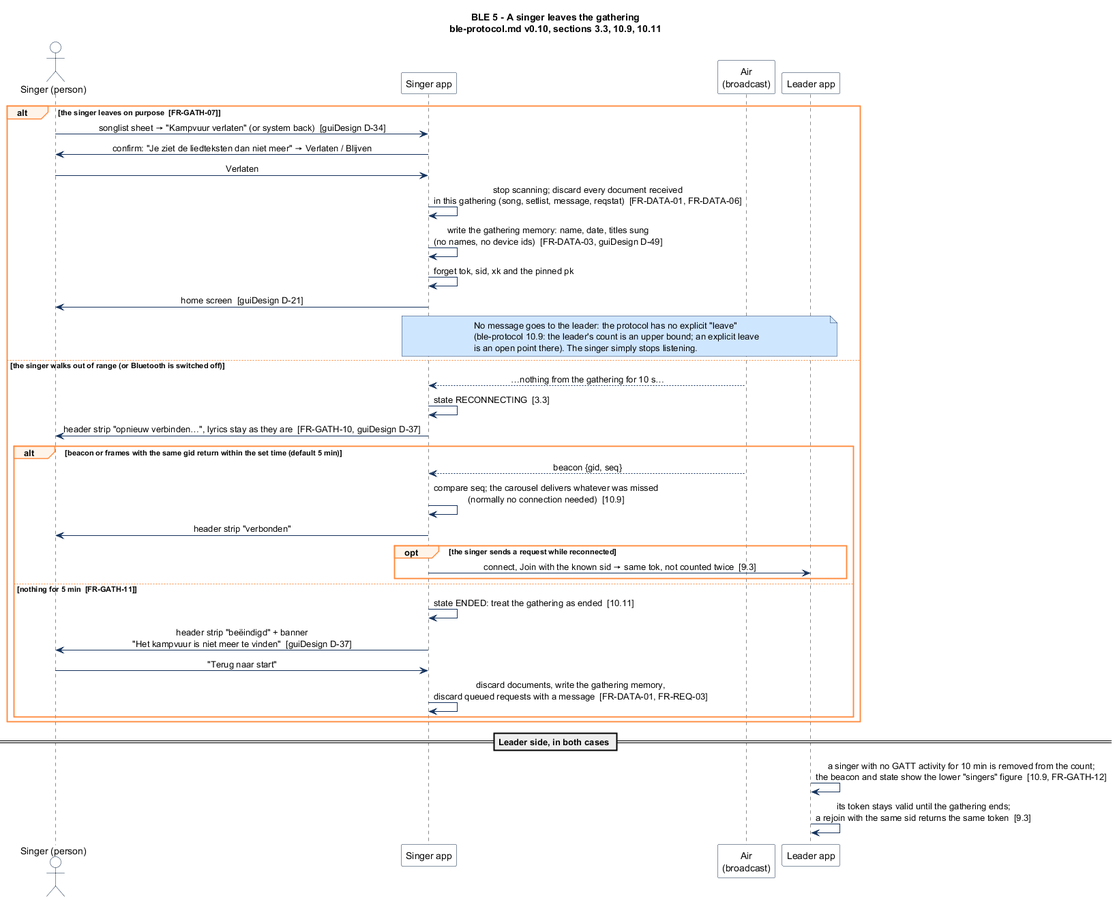
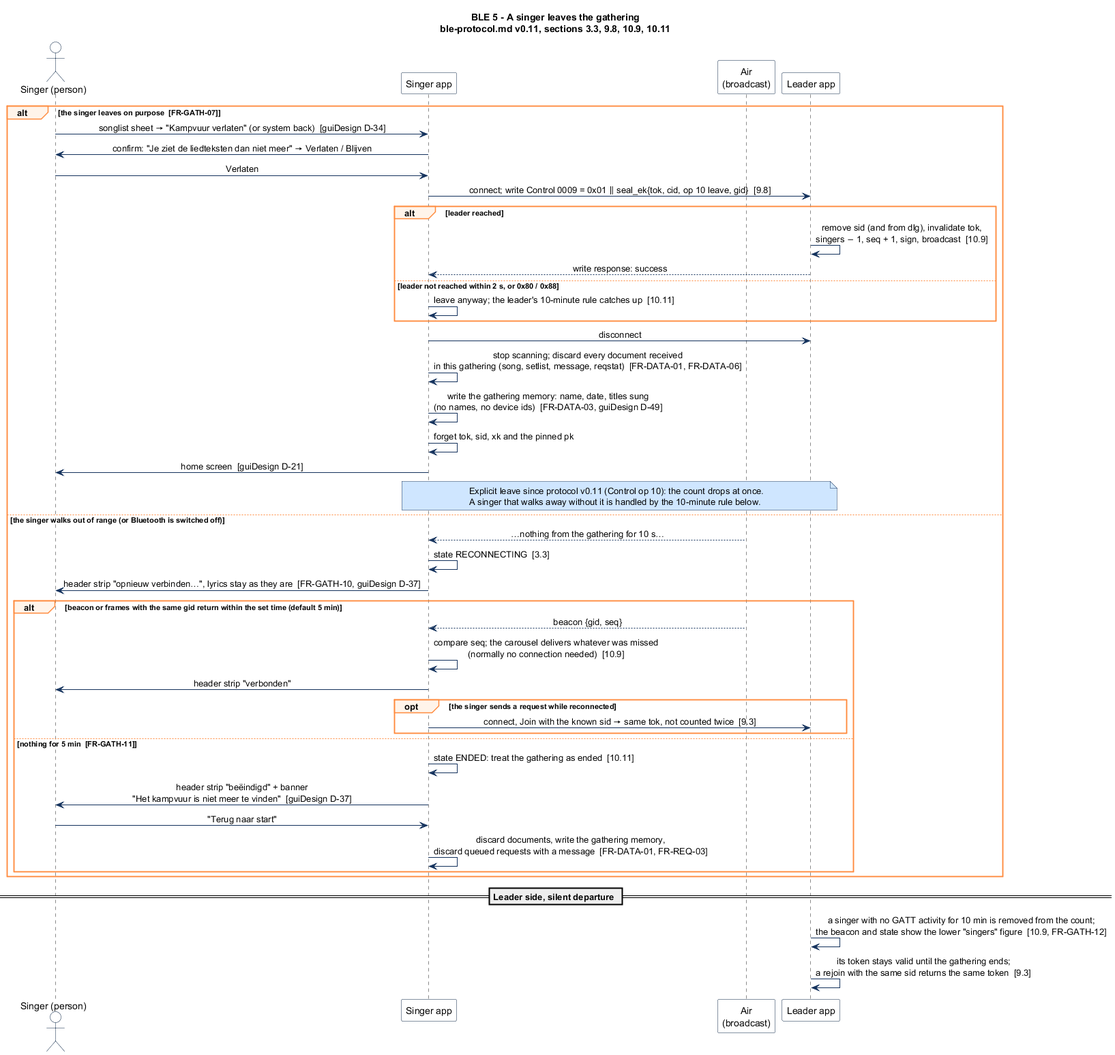
FRD v0.9, GUI design v0.7, song format v0.3, BLE v0.11 with helper code and leave, sequence diagrams

diff --git a/design/ble-protocol.md b/design/ble-protocol.md
@@ -5,7 +5,7 @@
 | Document | BLE protocol design |
 | Project | Zangbundel – campfire songbook app |
 | Protocol version | 1.0 (draft) |
-| Document version | 0.10 (draft) |
+| Document version | 0.11 (draft) |
 | Date | 2026-10-19 |
 | Author | Remko Welling |
 | Status | Draft for review |
@@ -23,6 +23,7 @@
 | 0.8 | 2026-10-18 | 6.5: link host is GitHub Pages (`pe1mew.github.io/Zangbundel/j`), scheme form `zangbundel://j/<payload>`, browser step with `intent://` button described. Q16 resolved. Depends on FRD v0.8. |
 | 0.9 | 2026-10-18 | 6.5: canonical link carries the trailing slash (`/Zangbundel/j/#…`); Pages site verified live. |
 | 0.10 | 2026-10-19 | Depends on FRD v0.9, which withdraws FR-LEAD-30 and 31 (no library download instruction in phase 1, `design/guiDesign.md` D-66). The `download` document (6) and the `libs` fields in Info and Join stay defined but are reserved: phase 1 apps do not send them and ignore them when received. No wire change. |
+| 0.11 | 2026-10-19 | Two additive Control commands for any registered singer (9.8): op 9 *become delegate* with a helper code shown on the leader's screen (`design/guiDesign.md` D-73, Q22; FR-LEAD-40 as amended in FRD v0.9), and op 10 *leave*, so the leader's count drops at once (FR-GATH-07, FR-GATH-12). Error `0x8E`. Procedures 10.9, 10.11 and 10.12, security table and traceability updated. Protocol stays 1.0: new keys and ops only. |
 
 ---
 
@@ -387,7 +388,7 @@ Base UUID `7e2bXXXX-9f1c-4a7d-b2d4-5a4e47424c45` (provisional; the last group sp
 | `0006` | **Data** | notify | MTU − 3 | Bytes of the document being transferred. |
 | `0007` | **Request** | write (with response) | 256 | Add or withdraw a song request (9.8). |
 | `0008` | *Time* | reserved | | Phase 2 clock synchronisation. Not present in 1.0. |
-| `0009` | **Control** | write (with response) | 512 | Delegate commands (9.9). |
+| `0009` | **Control** | write (with response) | 512 | Singer and delegate commands (9.8): delegate actions, become delegate with a helper code, leave. |
 
 Clients MUST tolerate additional characteristics they do not know. Servers MUST implement all of `0002`–`0007` and `0009`.
 
@@ -416,6 +417,7 @@ Clients MUST tolerate additional characteristics they do not know. Servers MUST 
 | `0x8B` | Upload rejected (hash mismatch or size limit) |
 | `0x8C` | Requested range outside the document |
 | `0x8D` | Sealed payload cannot be opened (wrong key, truncated, bad authentication tag) or unknown framing byte |
+| `0x8E` | Helper code wrong, expired, or locked after too many wrong tries (9.8 op 9, 10.12) |
 
 ### 8.4 Sealed payloads: end-to-end encryption of personal data [FR-BLE-17]
 
@@ -616,13 +618,13 @@ The singer MUST subscribe to Data notifications before writing Transfer. One tra
 - The leader MUST pace notifications to the connection (wait for the stack's "sent" callback). If the connection drops, the singer recomputes its missing ranges from the frames it has and repairs again later.
 - Repaired bytes fill the same reassembly buffer as broadcast frames; verification is identical (section 7.5).
 
-### 9.8 Control (write `0009`, delegates only, sealed)
+### 9.8 Control (write `0009`, sealed)
 
-Every Control write is sealed to the leader's `ek` (8.4) and carries the delegate's token. The leader checks that the token's `sid` is in `dlg`; otherwise `0x89`. On success the leader applies the command as if done in its own UI, increments `seq`, re-signs the state and broadcasts (section 10.5). Commands are idempotent per `cid`.
+Every Control write is sealed to the leader's `ek` (8.4) and carries the writer's session token. Ops 1–8 are **delegate commands**: the leader checks that the token's `sid` is in `dlg`, otherwise `0x89`. Ops 9 and 10 are **singer commands**, open to any registered singer. On success the leader applies the command as if done in its own UI, increments `seq`, re-signs the state and broadcasts (section 10.5). Commands are idempotent per `cid`.
 
 | Key | Name | Type | Req. | Meaning |
 |---|---|---|---|---|
-| 1 | `tok` | bstr 16 | yes | Delegate's session token. |
+| 1 | `tok` | bstr 16 | yes | Writer's session token. |
 | 2 | `cid` | bstr 4 | yes | Command ID; a repeated `cid` is answered with success and ignored. |
 | 3 | `op` | uint | yes | See below. |
 | 4 | `ref` | ref | op 1, 4 | Song reference. |
@@ -631,6 +633,7 @@ Every Control write is sealed to the leader's `ek` (8.4) and carries the delegat
 | 7 | `data` | bstr | op 8 | Upload chunk bytes (framed song document bytes). |
 | 8 | `len` | uint | op 8, idx 0 | Total length of the upload. |
 | 9 | `gid` | bstr 5 | yes | Gathering ID; binds the sealed payload (8.4). |
+| 10 | `hc` | tstr 4 | op 9 | Helper code (*hulpleidercode*): the four digits shown on the leader's screen (10.12). |
 
 | `op` | Command | Effect on the leader | FRD |
 |---|---|---|---|
@@ -642,8 +645,10 @@ Every Control write is sealed to the leader's `ek` (8.4) and carries the delegat
 | 6 | Decline request | Request `rid` → declined. | FR-LEAD-41 |
 | 7 | Push request now | Request `rid` → accepted and current. | FR-LEAD-41 |
 | 8 | Upload song chunk | Delegate → leader transfer of a song the leader lacks, in writes of ≤ 432 bytes of `data`, in order (the sealed write stays within 512 bytes). The bytes are the framed song document (section 9.5, DEFLATE), so the leader can broadcast them unchanged. The leader verifies `ref.hash` after the last chunk; `0x8B` on mismatch or if `len` > 64 kB. Then the delegate sends op 1 or 4. | FR-LEAD-42 (SHOULD) |
+| 9 | Become delegate (any registered singer) | `hc` is compared with the helper code the leader is currently showing (10.12). Match: the writer's `sid` is added to `dlg`, `seq` + 1, sign, broadcast; the write succeeds. No match, expired, or code locked: `0x8E`. | FR-LEAD-40, 45 |
+| 10 | Leave (any registered singer) | The writer's `sid` is removed from the singer table and from `dlg` if present, its token is invalidated, `singers` − 1, `seq` + 1, sign, broadcast. A later Join from the same device registers anew. The write succeeds; an unknown token (`0x80`) is treated by the singer as already left. | FR-GATH-07, FR-GATH-12 |
 
-Op 8 is optional in 1.0; a leader without it answers `0x8A` and the delegate shows "the leader does not have this song". Leader-only actions have no Control op by design [FR-LEAD-44].
+Op 8 is optional in 1.0; a leader without it answers `0x8A` and the delegate shows "the leader does not have this song". Leader-only actions have no Control op by design [FR-LEAD-44]: ending, the join code, revoking delegates and hand-over stay on the leader's screen; op 9 only lets a singer *ask* with a code the leader chose to show.
 
 ---
 
@@ -723,7 +728,7 @@ Connections now occur for registration, requests, delegate commands and repair. 
 ### 10.9 Loss of contact and reconnection
 
 - **Singer side.** Nothing received for 10 s → "reconnecting", keep the current lyrics [FR-GATH-10]. Beacon or frames return with the same `gid` → compare `seq`, continue; the carousel delivers whatever was missed, so normally no connection is needed. 5 min without anything → ended (10.11) [FR-GATH-11].
-- **Leader side.** Singers not seen for 10 min are removed from the count [FR-GATH-12]; because registered singers rarely connect, "seen" includes any GATT activity; the count is therefore an upper bound (FRD Q7 asks for an explicit *leave*).
+- **Leader side.** A singer that leaves on purpose sends Control op 10 (9.8) and is removed from the count at once [FR-GATH-07, FR-GATH-12]. Singers that fall silent without it (walked away, phone off) are removed after 10 min without GATT activity; because registered singers rarely connect, "seen" includes any GATT activity, so the count can run high by the silent departures of the last ten minutes. (v0.11: the explicit leave replaces the earlier note that the count is only an upper bound.)
 - **Leader app restart.** On start, a persisted running gathering younger than the resume window (default 10 min) is offered for resumption [FR-GATH-13]. Resuming reuses key, `gid`, name, tokens and `seq` (+1, so a burst follows).
 
 ### 10.10 End a gathering (leader)
@@ -734,11 +739,15 @@ Connections now occur for registration, requests, delegate commands and repair. 
 
 ### 10.11 Ended, on the singer
 
-On `ENDED` in the beacon, `status` 1 in a verified state, or the 5-minute timeout: show "gathering ended", delete all documents received during the gathering [FR-DATA-01, FR-DATA-06], write the gathering memory from the last verified setlist [FR-DATA-03]. Leaving voluntarily [FR-GATH-07] has the same local effect.
+On `ENDED` in the beacon, `status` 1 in a verified state, or the 5-minute timeout: show "gathering ended", delete all documents received during the gathering [FR-DATA-01, FR-DATA-06], write the gathering memory from the last verified setlist [FR-DATA-03].
+
+**Leaving voluntarily** [FR-GATH-07] has the same local effect, preceded by a best-effort notice to the leader: after the user confirms, the singer connects, writes Control op 10 (9.8) and disconnects, then cleans up. The write is attempted once with the normal backoff for at most 2 s; if the leader cannot be reached, or answers `0x80` or `0x88`, the singer leaves anyway and the leader's 10-minute rule (10.9) catches up. The singer discards its token, `sid`, `xk` and the pinned `pk` afterwards; rejoining later is a fresh registration.
 
 ### 10.12 Delegates
 
-**Appoint / revoke** [FR-LEAD-40]: the leader adds or removes the `sid` in `dlg`, `seq` + 1, sign, broadcast. The delegate learns of its role from the next verified state (one carousel pass), shows the delegate UI and fetches document 8 over GATT [FR-LEAD-45]. After revocation a Control write with that token gets `0x89`.
+**Appoint with a helper code** [FR-LEAD-40, as amended in FRD v0.9]: the leader has no list of singers to pick from (`design/guiDesign.md` D-73). To appoint, the leader opens *Hulpleider toevoegen*; the leader's app generates a **helper code** `hc` of four decimal digits from a cryptographic random source, shows it large on the leader's screen and keeps it valid for **120 s** or until used, whichever is first; at most one code is valid at a time. The intended helper, a registered singer standing next to the leader, types the code; the singer app connects and writes Control op 9 `{tok, cid, op 9, hc, gid}` sealed to `ek` (9.8). The leader compares `hc` with the valid code: on a match it adds the writer's `sid` to `dlg`, `seq` + 1, signs and broadcasts; the code is consumed. On a mismatch it answers `0x8E` and counts a wrong try; after **3 wrong tries** against one code, or when the 120 s have passed, the code is invalid and every further op 9 gets `0x8E` until the leader shows a new code. A singer is limited to one op 9 per 2 s per connection (10.8 rate limits). The new delegate learns of its role from the next verified state (one carousel pass), shows the delegate UI and fetches document 8 over GATT [FR-LEAD-45]; the leader's drawer lists it by the display name from its Join.
+
+**Revoke** [FR-LEAD-40, FR-LEAD-44]: leader-only, on the leader's screen: the leader removes the `sid` from `dlg`, `seq` + 1, sign, broadcast. After revocation a Control write with that token gets `0x89`. A delegate that leaves (op 10) is removed from `dlg` by the leave itself.
 
 **Act**: a delegate connects (delegates are the main users of `stay`), writes Control, handles the response. The leader's screen updates from the same state change [FR-LEAD-45]. If the leader cannot be reached, the delegate UI reports that the action could not be sent and does not queue it [FR-LEAD-43].
 
@@ -751,7 +760,9 @@ sequenceDiagram
   participant L as Leader
   participant D as Delegate
   participant S as Other singers
-  L->>L: add D.sid to dlg, seq+1, sign
+  L->>L: show helper code hc (4 digits, 120 s)
+  D->>L: connect, Control {tok, cid, op 9, hc} sealed
+  L->>L: hc matches → add D.sid to dlg, seq+1, sign (else 0x8E)
   L-->>D: broadcast state (burst) → D sees own sid in dlg
   D->>L: connect, Transfer doc 8 {tok}
   D->>L: Control {tok, cid, op 7 push request rid}
@@ -826,6 +837,8 @@ Singers scan continuously in the foreground; this costs more than the v0.1 desig
 | Learning who requested what | `reqstat` carries only random request IDs; names are only in document 8, sealed to a delegate. | A sniffer can link a `rid` to the device address that wrote a sealed request, not to a name. Accepted. |
 | Tracking a person across gatherings | `sid`, token and `xk` are per gathering; the OS randomises addresses; nothing persistent is sent [NFR-PRIV-01]. | None of note. |
 | A second gathering started in range | Pre-start scan refuses [FR-GATH-16]; singers pick by name and RSSI. | A modified app can ignore it; the leader is warned [FR-GATH-17]. |
+| Guessing the helper code to become a delegate | Four digits, valid 120 s or until used, one code at a time, locked after 3 wrong tries, one try per 2 s per connection, only from a registered singer's sealed Control write, and only while the leader has chosen to show a code (10.12). The leader sees every delegate in the drawer and revokes with one tap. | A child who reads the code over the leader's shoulder within those two minutes becomes a delegate until revoked; the leader's screen is the trust anchor, as with the QR code. Accepted. |
+| A singer leaving in another singer's name | Leave (op 10) needs the token, which travels only sealed. | A compromised phone can only remove itself. |
 | Luring singers into a fake or mistaken gathering | The join QR code (6.5) carries the leader's public key, so a phone that scans it can only end up in the gathering signed by that key; in QR-only mode [FR-GATH-21] the list cannot be used to join at all. For singers who join from the list: the join code travels inside the sealed Join (8.4), the gathering fingerprint [FR-GATH-18] lets the leader say which gathering to join, and leaving is one tap [FR-GATH-07]. | A leader-pushed text cannot be filtered; the leader is an adult by role. A spoken join code is no secret against people present. See `design/security-privacy-assessment.md` SP-04. |
 
 Link-layer encryption is deliberately not used: it would require system pairing, which FR-BLE-02 forbids, and would make broadcast impossible. Application-layer sealing (8.4) protects exactly the payloads that carry personal data and leaves the broadcast public.
@@ -839,7 +852,7 @@ Link-layer encryption is deliberately not used: it would require system pairing,
 - Frame `magic` values `0xD1`/`0xD2` identify framing version 1; a new framing gets a new magic.
 - Reserved for **phase 2**: `KARAOKE` flag; `ts` as the leader clock; characteristic `0008` Time; a broadcast *tick* document carrying the current karaoke timeline position, which fits the carousel model without a connection.
 - Reserved for **phase 3**: a `variant` field in `ref`; the song file carries chords and notation.
-- The protocol version this document specifies is **1.0**; the relay extension is planned as **1.1**.
+- The protocol version this document specifies is **1.0**; the relay extension is planned as **1.1**. Document v0.11 added Control ops 9 and 10, key 10 and error `0x8E` within 1.0, which is additive: a 1.0 leader that does not implement them answers `0x83` (malformed) and the singer shows that the leader's app is older.
 
 ---
 
@@ -874,10 +887,10 @@ The protocol layer is implemented against four primitives: *advertise(setId, byt
 | FR-GATH-02, 03, 04 | Beacon (6), gathering list rules (6.4) |
 | FR-GATH-05 | `CODE` flag, Join `code` (9.3) |
 | FR-GATH-06 | Registration fetches anything incomplete (7.6, 10.2) |
-| FR-GATH-07 | Singer leave (10.11) |
+| FR-GATH-07 | Leave: Control op 10 (9.8), best-effort notice then local clean-up (10.11) |
 | FR-GATH-08, 09 | End procedure (10.10), `ENDED` flag |
 | FR-GATH-10, 11 | Timers (6.4), reconnection (10.9) |
-| FR-GATH-12 | `singers` in Info/State, inactivity rule (10.9) |
+| FR-GATH-12 | `singers` in Info/State, explicit leave (9.8 op 10) and inactivity rule (10.9) |
 | FR-GATH-13 | Persisted key and resume (10.1, 10.9) |
 | FR-GATH-15 | Foreground service (15.1), iOS limits (15.2) |
 | FR-GATH-16, 17 | Pre-start scan and scanning while leading (10.1) |
@@ -901,7 +914,7 @@ The protocol layer is implemented against four primitives: *advertise(setId, byt
 | FR-LEAD-05, FR-SING-12 | `pos` in beacon (6.1, 10.6) |
 | FR-LEAD-06 | Re-push (10.5), `cur` absent |
 | FR-LEAD-32 | Lyrics broadcast to every singer (7, 9.5); `download` document and `libs` in Info/Join reserved since FR-LEAD-30 and 31 were withdrawn (FRD v0.9) |
-| FR-LEAD-40, 45, 46 | `dlg` in State (9.4), `role` in Join (9.3), appoint/revoke (10.12) |
+| FR-LEAD-40, 45, 46 | `dlg` in State (9.4), `role` in Join (9.3), helper code and Control op 9 (9.8, 10.12), revoke (10.12) |
 | FR-LEAD-41 | Document 8 (9.5), Control ops 5–7 (9.8) |
 | FR-LEAD-42 | Control ops 1, 3, 4 and upload op 8 (9.8) |
 | FR-LEAD-43, 44 | Leader as single authority (3.2, 9.8, 10.12) |

diff --git a/design/guiDesign.md b/design/guiDesign.md
@@ -187,7 +187,7 @@ The singer's lyric view is the screen the app exists for. It is one continuous p
 
 **D-33 — Song info stays one tap away but off the page.** The metadata of the song (author, licence, source, library) [FR-SING-15] opens from the toolbar (D-17) or from a long press on the song's title; it is not printed on the lyric page.
 
-**D-34 — Leaving singer mode is deliberate.** The exit from singer mode is the row *Kampvuur verlaten* at the bottom of the songlist sheet (D-31), and the system back gesture, both followed by the confirmation that FR-GATH-07 requires (*Je ziet de liedteksten dan niet meer.* with *Verlaten* and *Blijven*). It is not one of the three round buttons, so it cannot be hit by accident in the dark. Leaving returns to the home screen (section 4), ends the singer mode header, and discards the lyrics received over the air [FR-DATA-01]; the gathering memory of FR-DATA-03 is written at that moment. When the leader ends the gathering, the lyric view stays readable with the header *beëindigd* [FR-GATH-09] and the same row reads *Terug naar start*.
+**D-34 — Leaving singer mode is deliberate.** The exit from singer mode is the row *Kampvuur verlaten* at the bottom of the songlist sheet (D-31), and the system back gesture, both followed by the confirmation that FR-GATH-07 requires (*Je ziet de liedteksten dan niet meer.* with *Verlaten* and *Blijven*). It is not one of the three round buttons, so it cannot be hit by accident in the dark. Leaving first tells the leader, best effort and within two seconds, so the singer count drops at once (BLE protocol v0.11, Control op 10), then returns to the home screen (section 4), ends the singer mode header, and discards the lyrics received over the air [FR-DATA-01]; the gathering memory of FR-DATA-03 is written at that moment. When the leader ends the gathering, the lyric view stays readable with the header *beëindigd* [FR-GATH-09] and the same row reads *Terug naar start*.
 
 **D-47 — A singer sees only what the leader has sent.** The setlist page (D-29), the *Lijst* tab (D-31) and the previous/next buttons (D-30) contain exactly the songs received over BLE in the running gathering, in the order the leader pushed them: the current song and the ones before it. No upcoming song, no title of a song still to come, no placeholder for a text that has not arrived, even when the singer's own library holds that song. The singer's local library is a different thing: it is browsed in browse state (D-40), is never merged into the session page, and a song read there is not "part of the session" until the leader pushes it. When the gathering ends, the received songs are discarded [FR-DATA-01] and only their titles stay in the gathering memory [FR-DATA-03]. *Why:* the leader decides what the fire sings and when; reading ahead undermines that and tempts singers to request what is coming anyway. It also keeps a singer without the library from ever holding more than what was broadcast, which is the spirit of FR-LIB-22. FR-SING-03's optional "upcoming songs if the leader shares them" is therefore not used in phase 1 (Q17).
 
@@ -321,7 +321,7 @@ The leader prepares at home, with light and time, and leads at the fire, in the 
 
 #### Delegates without a singer list
 
-**D-73 — There is no singer list; the leader sees a count, and delegates are appointed with a helper code.** *(Supersedes D-64.)* The leader's app never lists the joined singers: singers are anonymous to the leader by design, so there is nothing a list could be used for except comparing phones. The drawer (D-61) shows *12 zangers* as a figure, which is also what the statistics keep (D-60, D-62) [FR-GATH-12]. Delegates (*hulpleiders*) are appointed with a **helper code**: the drawer row *Hulpleider toevoegen* shows a four-digit code, valid for two minutes, large enough to read across the fire; the helper opens their songlist sheet, taps *Hulpleider worden* on the *Verzoeken* tab and types the code; the leader's device confirms and the helper's app gains the *Leiden* tab (D-46) [FR-LEAD-40, FR-LEAD-45]. Only someone standing with the leader can do this, which is the point. The drawer then lists the delegates, and only them, by display name with an *Intrekken* button each, so the leader always sees who the helpers are [FR-LEAD-45]; the role ends with the gathering or when the helper leaves. FR-GATH-12's SHOULD, a list of singers by display name, is deliberately not met. Requests still show the requester's display name in the request sheet (D-63), as FR-LEAD-10 requires; that is the one place a name appears. *Why:* the owner's decision, 2026-10-19: drop the singer list; only the number matters, and because singers are anonymous there is nothing to do with who is who. FR-LEAD-40 was amended in FRD v0.9 to this mechanism; the BLE protocol needs the helper-code exchange added to its delegate procedure (Q22).
+**D-73 — There is no singer list; the leader sees a count, and delegates are appointed with a helper code.** *(Supersedes D-64.)* The leader's app never lists the joined singers: singers are anonymous to the leader by design, so there is nothing a list could be used for except comparing phones. The drawer (D-61) shows *12 zangers* as a figure, which is also what the statistics keep (D-60, D-62) [FR-GATH-12]. Delegates (*hulpleiders*) are appointed with a **helper code**: the drawer row *Hulpleider toevoegen* shows a four-digit code, valid for two minutes, large enough to read across the fire; the helper opens their songlist sheet, taps *Hulpleider worden* on the *Verzoeken* tab and types the code; the leader's device confirms and the helper's app gains the *Leiden* tab (D-46) [FR-LEAD-40, FR-LEAD-45]. Only someone standing with the leader can do this, which is the point. The drawer then lists the delegates, and only them, by display name with an *Intrekken* button each, so the leader always sees who the helpers are [FR-LEAD-45]; the role ends with the gathering or when the helper leaves. FR-GATH-12's SHOULD, a list of singers by display name, is deliberately not met. Requests still show the requester's display name in the request sheet (D-63), as FR-LEAD-10 requires; that is the one place a name appears. *Why:* the owner's decision, 2026-10-19: drop the singer list; only the number matters, and because singers are anonymous there is nothing to do with who is who. FR-LEAD-40 was amended in FRD v0.9 to this mechanism; BLE protocol v0.11 carries it as Control op 9 (Q22, resolved).
 
 **D-64 — Superseded by D-73.** The singer list described in v0.7 is not built.
 
@@ -447,7 +447,7 @@ The values come from `design/icon/zangbundel-icon.svg` and `design/icon/feature-
 | Q12 | Should the round-button column mirror to the left for left-handed singers (a setting), or stay at the right for everyone? | D-30 |
 | Q13 | Magnifier mode (section 6.1, "To investigate"): do we want a zoom-and-pan way of reading the lyrics and the setlist, with the text laid out at a size tuned for zooming, in addition to or instead of scrolling at one size? To be prototyped and tried at a fire: gesture reliability in the dark and with one hand (FR-SING-11), compatibility with the no-horizontal-scrolling rule (FR-DISP-06), follow-the-leader and the current-line mark under the glass, interaction with text-size steps (FR-DISP-05) and system font scaling (NFR-ACC-02). | D-28, D-29, lyric view prototype |
 | Q14 | *Resolved 2026-10-19 (section 6.3, D-50 to D-73):* leader mode is described. The last three points were decided the same day: the join code and QR-only are fixed per gathering (D-71), hand-over is not in phase 1 (D-72, FRD Q5 closed), and there is no singer list; delegates are appointed with a helper code (D-73, FR-LEAD-40 amended in FRD v0.9). | Resolved |
-| Q22 | The helper code of D-73 needs a place in the BLE protocol's delegate procedure (section 10.12 there): the leader's device generates the code and the helper's phone sends it in a sealed Control or Join write; the protocol document specifies the exchange, its lifetime and the error for a wrong code. | D-73, `design/ble-protocol.md` |
+| Q22 | *Resolved 2026-10-19:* BLE protocol v0.11 specifies the helper code as Control op 9 with key `hc` (9.8, 10.12): four digits, 120 s, one code at a time, locked after three wrong tries, error `0x8E`; and adds Control op 10, an explicit leave, so the leader's count drops at once when a singer leaves on purpose (D-34). | Resolved |
 | Q20 | D-70 leaves FR-LEAD-05 (SHOULD: the leader indicates the current verse or line) unmet in phase 1; follow-the-leader follows song starts only. Accept for phase 1 and revisit with karaoke (phase 2), where the gathering clock gives the position for free? | D-70, FR-LEAD-05, FR-SING-12 |
 | Q21 | *Resolved 2026-10-19:* the owner chose to keep D-66. FRD v0.9 withdraws FR-LEAD-30 and FR-LEAD-31, rewords FR-LEAD-32, and drops the instruction from FR-LIB-12, FR-BLE-06 and FR-LEAD-44; BLE v0.10 keeps the `download` document and the `libs` fields reserved and unused; song-format v0.3 marks 12.1 and 12.7 accordingly. | Resolved |
 | Q15 | Dutch UI term for the delegate role: *hulpleider* (used provisionally in D-46), *gedelegeerde*, or *assistent*? | D-46, locale files |

diff --git a/changelog.md b/changelog.md
@@ -8,6 +8,7 @@ The format is based on [Keep a Changelog](https://keepachangelog.com/), and this
 
 ### Added
 - `design/security-privacy-assessment.md` v0.3: SP-16 assesses the opt-in campfire statistics (`design/guiDesign.md` D-60, Q19) without changing any requirement or policy: the data set item by item with the anonymity argument (no identifiers, no hashes, date only, counts only), the risk that song identifiers plus the date single out a group, the developer's server as a network peer (transport, authentication, what the server would see, retention, who can read it) and why that route is not taken, the settings screen as consent surface, the export file and the local records, and the routes weighed (export only, field tests with a logging test build, a local statistics screen, platform signals, a closed-test cohort, a server with the FRD amended). Owner's decision recorded: export only with no server, field tests with known groups under the test plan, a local statistics screen for the leader; "nothing reaches the developer" stays true. `docs/RUNBOOK.md` Step 4: note that the Data safety declaration is unaffected by export only and must be re-evaluated if a server is ever adopted, with the question whether anonymous opt-in statistics count as collected under Play's definitions.
+- BLE protocol v0.11: two additive Control commands open to any registered singer: op 9 *become delegate* with a four-digit helper code shown on the leader's screen (120 s, one code at a time, locked after three wrong tries, error `0x8E`; guiDesign D-73, Q22 resolved; FR-LEAD-40 as amended) and op 10 *leave*, so the leader's singer count drops at once (FR-GATH-07, FR-GATH-12); procedures 10.9, 10.11, 10.12, the security table, versioning note and traceability updated. Song format v0.3 depends on BLE v0.11. `design/ble/`: scenario 5 redrawn with the explicit leave, new `seq-07-helper-code-delegate` (appoint, act, revoke), README updated.
 - `design/ble/`: six PlantUML sequence diagrams of the BLE protocol (v0.10) for the technical design, each as `.puml`, `.svg` and `.png`: start a gathering, join from the list or by QR code, push a song, repair a song a singer missed, a singer leaves or drops out, the leader ends the gathering; README with the scenario table, the render command and findings (no explicit leave message in the protocol; QR join skips Info; the helper code of D-73 awaits Q22).
 - `design/guiDesign.md` v0.7, closing the leader-side list: D-71 join code and QR-only fixed per gathering (change = stop and restart), D-72 no hand-over in phase 1 (stop and restart from the same setlist), D-73 no singer list, only the count; delegates appointed with a four-digit helper code shown by the leader and typed by the helper, delegates listed with revoke (D-64 superseded). Q14 and Q18 resolved; Q22 asks the BLE protocol for the helper-code exchange. D-52 amended: rows whose title occurs in more than one loaded library also show the library's name, in the songbook, the setlist editor, the setlist block and the separators. D-74: a setlist entry the loaded libraries cannot resolve is skipped at the fire but never silently: greyed separator bar with *niet gevonden* and the reason under it, counted in the setlist block and on the gathering settings screen before the start, removable in the editor.
 - Song format v0.3, format 1.1: section 13, setlists (`.zbs`): ChordPro-like `{title}` and `{meta: id}`, one `<library id>/<song id>` entry per line with optional `# title`, `? <title>` for title-only entries, canonical form as for songs, `setlists/` in repositories and archives, the `setlists` manifest field (archive 1.1), app behaviour for shipped, imported and exported setlists and resolution, validation codes SL001–SL104, I004, I005, archive warning A104. Examples, traceability and open questions renumbered to 14–16.

diff --git a/design/ble/README.md b/design/ble/README.md
@@ -1,6 +1,6 @@
 # BLE sequence diagrams
 
-Sequence diagrams of what happens on the air for the six main scenarios of `design/ble-protocol.md` (document v0.10, protocol 1.0), drawn in preparation of the technical design. Each diagram cites the protocol sections and FRD requirements it depicts, and the GUI decisions (`design/guiDesign.md` D-nn) at the points where a person acts or sees something. The protocol document is normative; a diagram that disagrees with it is wrong.
+Sequence diagrams of what happens on the air for the main scenarios of `design/ble-protocol.md` (document v0.11, protocol 1.0), drawn in preparation of the technical design. Each diagram cites the protocol sections and FRD requirements it depicts, and the GUI decisions (`design/guiDesign.md` D-nn) at the points where a person acts or sees something. The protocol document is normative; a diagram that disagrees with it is wrong.
 
 | File | Scenario | Protocol sections |
 |---|---|---|
@@ -10,6 +10,7 @@ Sequence diagrams of what happens on the air for the six main scenarios of `desi
 | `seq-04-missing-song-repair` | A singer misses frames: repair timer, random delay, Transfer of the missing byte ranges over GATT, backoff when the leader is busy | 7.6, 9.7, 10.4, 10.8 |
 | `seq-05-singer-leaves` | A singer leaves on purpose or walks out of range: local clean-up and memory, reconnecting, the 5-minute end; what the leader sees | 3.3, 10.9, 10.11 |
 | `seq-06-end-gathering` | The leader ends the gathering: final state and beacon, singers' clean-up, the 60-second window, key deletion | 9.4, 10.10, 10.11 |
+| `seq-07-helper-code-delegate` | The leader shows a helper code, the helper's app sends it, the delegate acts through the leader, the leader revokes | 8.4, 9.4, 9.8, 10.12 |
 
 Each scenario exists as `.puml` (source), `.svg` and `.png`. Render with PlantUML (the jar from any project; sequence diagrams need no Graphviz):
 
@@ -21,6 +22,6 @@ The `-charset UTF-8` flag matters on Java 8, which otherwise reads the files as 
 
 ## Findings while drawing
 
-- **No explicit leave.** The protocol has no message for a singer that leaves; the leader's singer count drops only after ten minutes without GATT activity (10.9), so the count during the evening is an upper bound. Scenario 5 shows this. Whether an explicit leave is worth a sealed write is a question for the protocol document.
+- **Explicit leave, since v0.11.** Drawing scenario 5 against v0.10 showed that the protocol had no message for a singer that leaves, so the leader's count only dropped after ten minutes without GATT activity (10.9). Protocol v0.11 added Control op 10: a leaving singer tells the leader, best effort within two seconds, and the count drops at once; silent departures are still caught by the ten-minute rule. Scenario 5 shows both.
 - **Join by QR skips Info.** Scenario 2 shows the two ways in side by side: from the list the key comes from the Info document and is checked against `gid`; from the QR code the key is pinned from the code and Info is never consulted (6.5).
-- **The helper code of guiDesign D-73 is not drawn.** The delegate appointment by code is not in the protocol yet (guiDesign Q22); the existing appoint-by-`dlg` flow is in the protocol document itself (10.12) and gets its diagram once Q22 is resolved.
+- **Helper code, since v0.11.** The delegate appointment by a four-digit code shown on the leader's screen (guiDesign D-73) is Control op 9 in protocol v0.11 (9.8, 10.12); scenario 7 draws it together with a delegate action and the revocation.

diff --git a/design/song-format.md b/design/song-format.md
@@ -9,13 +9,13 @@
 | Date | 2026-10-19 |
 | Author | Remko Welling |
 | Status | Draft for review |
-| Depends on | `design/functional-requirements.md` v0.9, `design/ble-protocol.md` v0.10 |
+| Depends on | `design/functional-requirements.md` v0.9, `design/ble-protocol.md` v0.11 |
 
 | Version | Date | Change |
 |---|---|---|
 | 0.1 | 2026-10-18 | First draft. Answers FRD open question Q4 (ChordPro). |
 | 0.2 | 2026-10-18 | Added section 12: the release archive (`.zbl`), its manifest, repository snapshots, release index, build and load procedures, validation codes A001–A103. Later sections renumbered (examples 13, traceability 14, open questions 15). `release_index` in `zangbundel.json`; `releases.json` in the layout. Q12–Q14. |
-| 0.3 | 2026-10-19 | Depends on FRD v0.9 and BLE v0.10: FR-LEAD-30 and 31 withdrawn, so the leader's download instruction in 12.1 and 12.7 is marked not used in phase 1. Section 13, setlists (`.zbs`), added as format 1.1 and archive 1.1: the setlist file, the `setlists/` directory in repositories and archives, the `setlists` manifest field, validation codes SL001–SL104 (`design/guiDesign.md` D-59, Q18). Later sections renumbered (examples 14, traceability 15, open questions 16). |
+| 0.3 | 2026-10-19 | Depends on FRD v0.9 and BLE v0.11 (v0.10 withdrew the download instruction, v0.11 added the helper code and the explicit leave; neither touches this format): FR-LEAD-30 and 31 withdrawn, so the leader's download instruction in 12.1 and 12.7 is marked not used in phase 1. Section 13, setlists (`.zbs`), added as format 1.1 and archive 1.1: the setlist file, the `setlists/` directory in repositories and archives, the `setlists` manifest field, validation codes SL001–SL104 (`design/guiDesign.md` D-59, Q18). Later sections renumbered (examples 14, traceability 15, open questions 16). |
 
 ---
 
